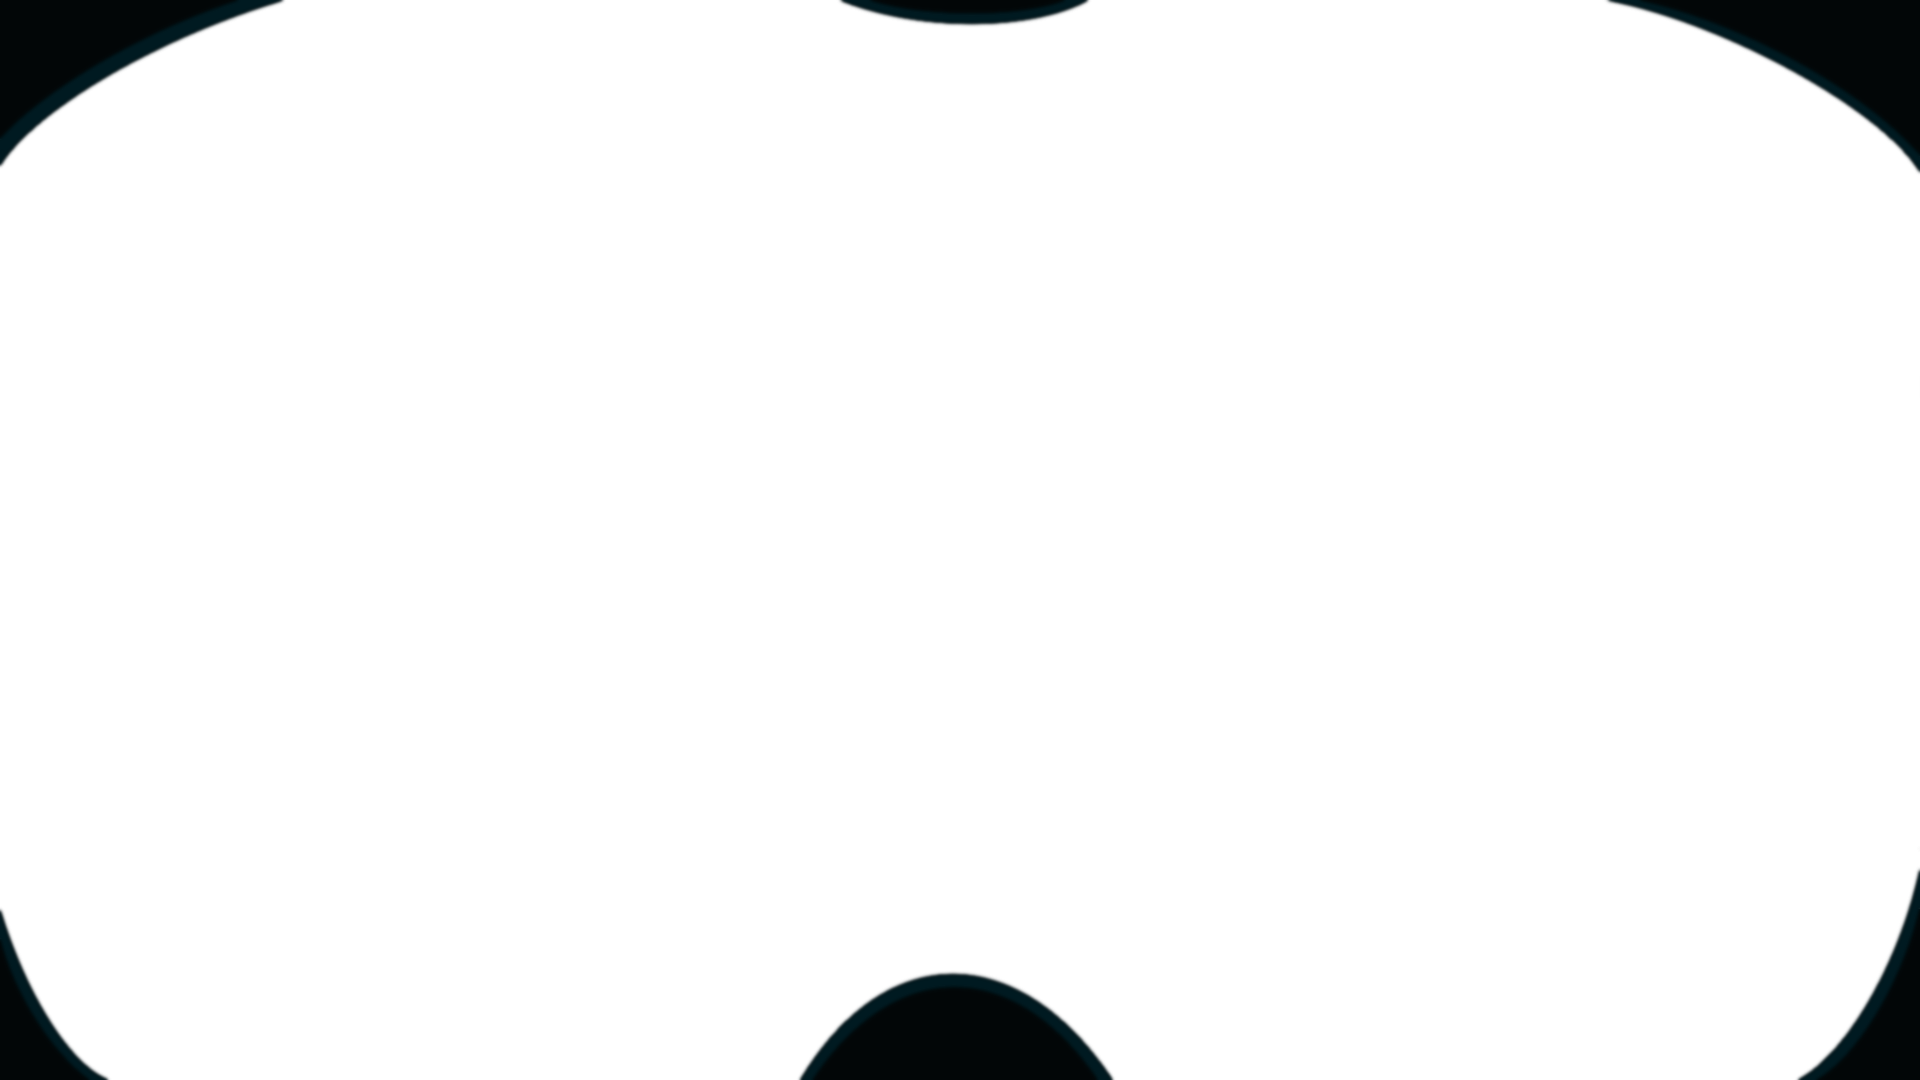
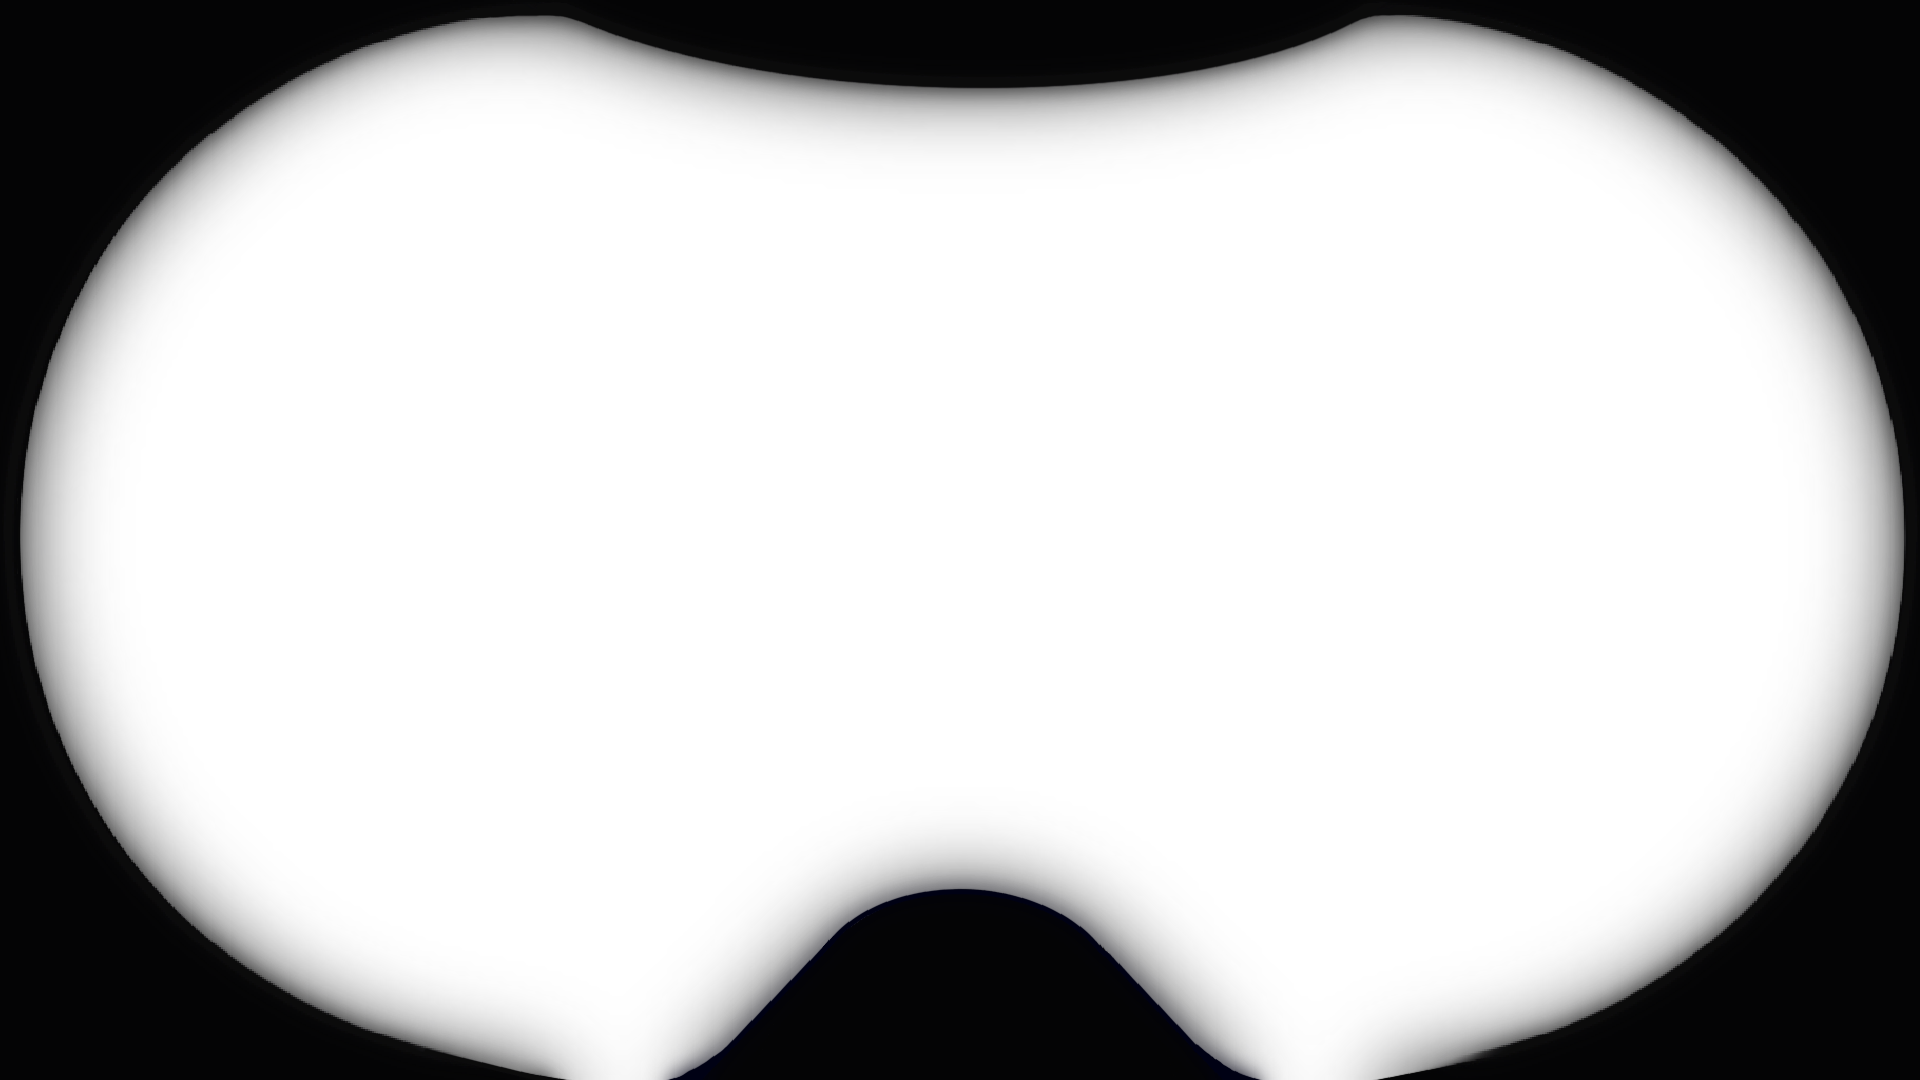
adding postFXs

Changed region(s): [[0.0, 0.0, 1.0, 1.0]]

diff --git a/src/components/Player.tsx b/src/components/Player.tsx
@@ -30,83 +30,80 @@ export function Player() {
   const { spotlight2OffsetX, spotlight2OffsetY, spotlight2OffsetZ } =
     useControls({
       spotlight2OffsetX: { value: 0, min: -150, max: 150, step: 0.1 },
-      spotlight2OffsetY: { value: 0, min: -150, max: 150, step: 0.1 },
-      spotlight2OffsetZ: { value: 75, min: -150, max: 150, step: 0.1 },
+      spotlight2OffsetY: { value: -8, min: -150, max: 150, step: 0.1 },
+      spotlight2OffsetZ: { value: 60, min: -150, max: 150, step: 0.1 },
     })
 
   useFrame((state) => {
-    const { forward, backward, left, right, dash } = get()
-    const velocity = ref.current!.linvel()
+    if (ref.current) {
+      const { forward, backward, left, right, dash } = get()
+      const velocity = ref.current!.linvel()
 
-    state.camera.rotation.order = 'YXZ'
-    const cameraRotation = state.camera.rotation.x
-    if (cameraRotation > MAX_VERTICAL_ANGLE) {
-      state.camera.rotation.x = MAX_VERTICAL_ANGLE
-    } else if (cameraRotation < -MAX_VERTICAL_ANGLE) {
-      state.camera.rotation.x = -MAX_VERTICAL_ANGLE
-    }
+      state.camera.rotation.order = 'YXZ'
+      const cameraRotation = state.camera.rotation.x
+      if (cameraRotation > MAX_VERTICAL_ANGLE) {
+        state.camera.rotation.x = MAX_VERTICAL_ANGLE
+      } else if (cameraRotation < -MAX_VERTICAL_ANGLE) {
+        state.camera.rotation.x = -MAX_VERTICAL_ANGLE
+      }
 
-    const { x, y, z } = ref.current!.translation()
-    state.camera.position.set(x, y, z)
+      const { x, y, z } = ref.current!.translation()
+      state.camera.position.set(x, y, z)
 
-    frontVector.set(0, 0, +backward - +forward)
-    sideVector.set(+left - +right, 0, 0)
-    direction
-      .subVectors(frontVector, sideVector)
-      .normalize()
-      .multiplyScalar(dash ? DASH_SPEED_MULTIPLIER : BASE_SPEED_MULTIPLIER)
-      .applyQuaternion(state.camera.quaternion)
-    ref.current!.setLinvel(
-      { x: direction.x, y: velocity.y, z: direction.z },
-      true
-    )
-
-    if (targetRef.current) {
-      const targetOffset = new Vector3(0, 0, -5).applyQuaternion(
-        state.camera.quaternion
+      frontVector.set(0, 0, +backward - +forward)
+      sideVector.set(+left - +right, 0, 0)
+      direction
+        .subVectors(frontVector, sideVector)
+        .normalize()
+        .multiplyScalar(dash ? DASH_SPEED_MULTIPLIER : BASE_SPEED_MULTIPLIER)
+        .applyQuaternion(state.camera.quaternion)
+      ref.current!.setLinvel(
+        { x: direction.x, y: velocity.y, z: direction.z },
+        true
       )
-      targetRef.current.position.copy(state.camera.position).add(targetOffset)
-    }
 
-    if (spotlightRef1.current && spotlightRef2.current && targetRef.current) {
-      spotlightRef1.current.position.copy(state.camera.position)
-      spotlightRef1.current.target = targetRef.current!
-      spotlightRef1.current.target.updateMatrixWorld()
+      if (targetRef.current) {
+        const targetOffset = new Vector3(0, 0, -70).applyQuaternion(
+          state.camera.quaternion
+        )
+        targetRef.current.position.copy(state.camera.position).add(targetOffset)
+      }
 
-      const spotlight2Offset = new Vector3(
-        spotlight2OffsetX,
-        spotlight2OffsetY,
-        spotlight2OffsetZ
-      ).applyQuaternion(state.camera.quaternion)
+      if (spotlightRef1.current && spotlightRef2.current && targetRef.current) {
+        spotlightRef1.current.position.copy(state.camera.position)
+        spotlightRef1.current.target = targetRef.current!
+        spotlightRef1.current.target.updateMatrixWorld()
 
-      spotlightRef2.current.position
-        .copy(targetRef.current!.position)
-        .add(spotlight2Offset)
-      spotlightRef2.current.target = targetRef.current!
-      spotlightRef2.current.target.updateMatrixWorld()
+        const spotlight2Offset = new Vector3(
+          spotlight2OffsetX,
+          spotlight2OffsetY,
+          spotlight2OffsetZ
+        ).applyQuaternion(state.camera.quaternion)
+
+        spotlightRef2.current.position
+          .copy(targetRef.current!.position)
+          .add(spotlight2Offset)
+        spotlightRef2.current.target = targetRef.current!
+        spotlightRef2.current.target.updateMatrixWorld()
+      }
     }
   })
 
   return (
     <>
-      <hemisphereLight
-        groundColor="lightblue"
-        color="darkgreen"
-        intensity={2.5}
-      />
       <SpotLight
         ref={spotlightRef1}
-        intensity={2500}
-        distance={400}
-        angle={Math.PI / 3.5}
-        penumbra={0.15}
+        intensity={3500}
+        distance={300}
+        angle={Math.PI / 4.1}
+        penumbra={0.2}
         color="yellow"
       />
       <SpotLight
         ref={spotlightRef2}
         intensity={140000}
-        distance={800}
-        angle={Math.PI / 11.5}
+        distance={600}
+        angle={Math.PI / 9.5}
         penumbra={0.05}
         color="white"
       />
@@ -122,7 +119,7 @@ export function Player() {
       </RigidBody>
 
       <mesh ref={targetRef} position={[0, 0, -6]} visible={false}>
-        <boxGeometry args={[0.1, 0.1, 0.1]} />
+        <boxGeometry args={[1, 1, 1]} />
       </mesh>
     </>
   )

diff --git a/src/components/Scene.tsx b/src/components/Scene.tsx
@@ -5,6 +5,13 @@ import { MutableRefObject } from 'react'
 import { Stage } from './Stage'
 import { keyboardControls } from '../const/keyboardControls'
 import { useGame } from '../hooks/useGame'
+import {
+  // ChromaticAberration,
+  EffectComposer,
+  Noise,
+} from '@react-three/postprocessing' // Import the required components
+import { BlendFunction } from 'postprocessing'
+// import { Vector2 } from 'three'
 
 export const Scene: React.FC<{
   canvasRef: MutableRefObject<HTMLCanvasElement | null>
@@ -15,9 +22,11 @@ export const Scene: React.FC<{
 
   const [ready, setReady] = useState(false)
   const { setPause } = useGame()
+
   useEffect(() => {
     setPause(true)
   }, [setPause])
+  // const offset: Vector2 = new Vector2(0.01, 0.02)
   return (
     <>
       <Physics gravity={[0, -4, 0]}>
@@ -33,10 +42,21 @@ export const Scene: React.FC<{
           setPause(false)
         }}
         onUnlock={() => {
-          // setReady(false)
-          // setPause(true)
+          // setReady(false);
+          // setPause(true);
         }}
       />
+      {ready && (
+        <EffectComposer>
+          <Noise blendFunction={BlendFunction.SOFT_LIGHT} opacity={0.1} />
+          {/* <ChromaticAberration
+            blendFunction={BlendFunction.SOFT_LIGHT}
+            offset={offset}
+            radialModulation={false}
+            modulationOffset={0.001}
+          /> */}
+        </EffectComposer>
+      )}
     </>
   )
 }

diff --git a/src/components/Stage.tsx b/src/components/Stage.tsx
@@ -1,6 +1,5 @@
 import { Player } from './Player'
 import { WaterPlane } from './WaterPlane'
-import { Instances, Instance } from '@react-three/drei'
 import { Vector3 } from 'three'
 
 export function Stage() {
@@ -20,16 +19,12 @@ export function Stage() {
       <Player />
       <WaterPlane />
 
-      <Instances limit={numBoxes}>
-        {floatingBoxesPositions.map((position, index) => (
-          <Instance key={index} position={position}>
-            <mesh>
-              <boxGeometry args={[1, 1, 1]} />
-              <meshStandardMaterial color="darkgrey" />
-            </mesh>
-          </Instance>
-        ))}
-      </Instances>
+      {floatingBoxesPositions.map((position, index) => (
+        <mesh position={position} key={index}>
+          <boxGeometry args={[1, 1, 1]} />
+          <meshStandardMaterial color="darkgrey" />
+        </mesh>
+      ))}
     </>
   )
 }

diff --git a/src/components/WaterPlane.tsx b/src/components/WaterPlane.tsx
@@ -20,7 +20,7 @@ export const WaterPlane = () => {
           position={[0, -30, 0]}
         >
           <planeGeometry args={[5000, 5000]} />
-          <meshStandardMaterial map={texture} roughnessMap={roughnessMap} />
+          <meshPhysicalMaterial map={texture} roughnessMap={roughnessMap} />
         </mesh>
       </CuboidCollider>
     </RigidBody>

diff --git a/src/components/CanvasWrapper.tsx b/src/components/CanvasWrapper.tsx
@@ -16,7 +16,7 @@ export function CanvasWrapper() {
         camera={{ fov: 35 }}
         onCreated={({ scene }) => {
           scene.background = new Color(0x000000)
-          scene.fog = new FogExp2(0x000000, 0.005)
+          scene.fog = new FogExp2(0x000000, 0.002)
         }}
         gl={{
           powerPreference: 'high-performance',

diff --git a/src/components/MaskOverlay.tsx b/src/components/MaskOverlay.tsx
@@ -6,7 +6,7 @@ const OverlayContainer = styled.div`
   left: 0;
   width: 100%;
   height: 100%;
-  z-index: 9999;
+  z-index: 1;
   pointer-events: none;
 `
 
